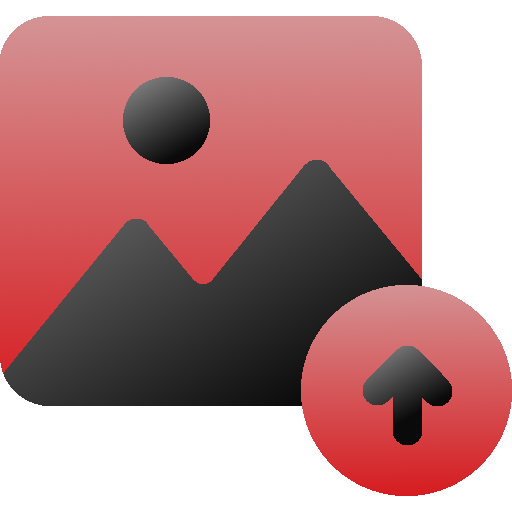
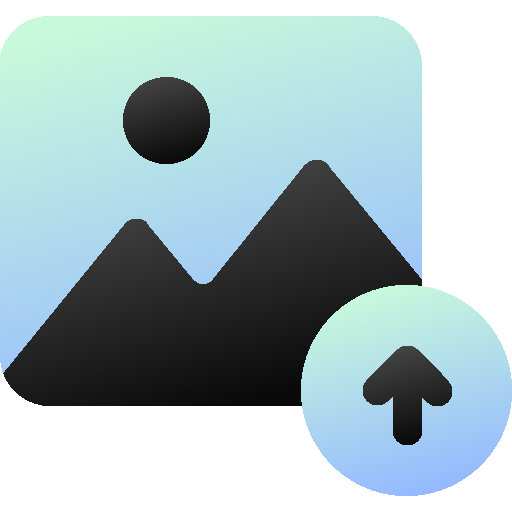
Reworked design to blue green and dark mode

diff --git a/geoguess_project/frontend/style.css b/geoguess_project/frontend/style.css
@@ -20,6 +20,11 @@ body {
     background-repeat: no-repeat;
     background-attachment: fixed;
     overflow-y: scroll;
+
+    background-color: #121212;
+    color: #eeeeee;
+
+    transition: background-color 0.3s ease, color 0.3s ease;
 }
 
 h1 {
@@ -27,9 +32,9 @@ h1 {
 }
 
 #uploadArea, #uploadAreaSmall {
-    border: 3px dashed #d61c20;
+    border: 3px dashed #94b9ff;
     border-radius: 10px;
-    color: #d61c20;
+    color: #94b9ff;
     font-weight: bold;
     cursor: pointer;
     user-select: none;
@@ -76,9 +81,9 @@ h1 {
 }
 
 #uploadArea.dragover, #uploadAreaSmall.dragover {
-    background-color: #d0e7ff;
-    border-color: #d61c20;
-    color: #d61c20;
+    background-color: #414e54;
+    border-color: #c8f9db;
+    color: #c8f9db;
 }
 
 #uploadAreaSmall {
@@ -87,18 +92,8 @@ h1 {
     margin: 40px auto 10px;
     font-size: 14px;
     display: none;
-
     flex-direction: column;
-    align-items: center;
-    justify-content: center;
-    position: relative;
-    border: 3px dashed #d61c20;
-    border-radius: 10px;
-    color: #d61c20;
-    cursor: pointer;
-    user-select: none;
     padding: 10px;
-    text-align: center;
     box-sizing: border-box;
 }
 
@@ -135,14 +130,14 @@ h1 {
     max-width: 100%;
     max-height: 300px;
     border-radius: 8px;
-    border: 1px solid #0a0a0a50;
+    border: 1px solid #94b9ff50;
     object-fit: contain;
 }
 
 .header-box {
     font-size: 12px;
     width: 100%;
-    background-color: #e7deda;
+    background-color: #1e1e1e;
     box-shadow: 0 3px 6px rgba(0, 0, 0, 0.3);
     padding: 1px 0;
     margin: 0;
@@ -166,17 +161,17 @@ h1 {
 }
 
 .spoti {
-  color: #d61c20;
+  color: #c8f9db;
   font-weight: bold;
 }
 
 .find {
-  color: #0A0A0A;
+  color: #94b9ff;
   font-weight: normal;
 }
 
 .background-box {
-    background: #e7deda88;
+    background: #1e1e1eaa;
     backdrop-filter: blur(10px);
     width: 75%;
     padding-top: 250px;
@@ -187,7 +182,7 @@ h1 {
 .divider {
     width: 80%;
     height: 1px;
-    background-color: #0A0A0A;
+    background-color: #94b9ff;
     margin: 60px auto;
     display: none;
 }
@@ -211,9 +206,9 @@ h1 {
 .chartContainer {
     flex: 1 1 40%;
     aspect-ratio: 3 / 4;
-    background: #e7deda;
+    background: #1e1e1e;
     border-radius: 8px;
-    border: 1px solid #0a0a0a50;
+    border: 1px solid #94b9ff50;
     box-shadow: 0 0 6px rgba(0, 0, 0, 0.1);
     display: flex;
     align-items: center;
@@ -225,19 +220,30 @@ h1 {
 #barChart {
     width: 100%;
     height: 100%;
+    background-color: #1e1e1e;
 }
 
 #map {
+    position: relative;
     flex: 2 1 60%;
-    border: 1px solid #0a0a0a50;
+    border: 1px solid #94b9ff50;
     border-radius: 8px;
     box-shadow: 0 0 6px rgba(0, 0, 0, 0.1);
     min-width: 500px;
 }
 
+#mapOceanOverlay {
+  position: absolute;
+  top: 0; left: 0; right: 0; bottom: 0;
+  background-color: rgba(180, 218, 255, 0.055);
+  pointer-events: none;
+  border-radius: 8px;
+  z-index: 500;
+}
+
 #chatBox {
   padding: 15px;
-  background-color: #0a0a0aaa;
+  background-color: #94b9ffaa;
   border-radius: 12px;
   font-size: 1.1em;
   display: none;
@@ -250,12 +256,12 @@ h1 {
   margin: 50px auto 30px auto;
   
   overflow-y: auto;
-  box-shadow: 0 0 15px #d61c20cc;
+  box-shadow: 0 0 15px #c8f9dbcc;
 }
 
 #chatBox {
   padding: 10px;
-  background-color: #0a0a0a50;
+  background-color: #94b9ff50;
   border-radius: 5px;
   font-size: 1.1em;
   display: none;
@@ -270,7 +276,7 @@ h1 {
   transition: opacity 0.6s ease, transform 0.6s ease;
 
   overflow-y: auto;
-  box-shadow: 0 0 15px #d61c20cc;
+  box-shadow: 0 0 15px #c8f9dbcc;
 }
 
 
@@ -283,12 +289,12 @@ h1 {
     max-width: 600px;
     margin: 10px auto;
     padding: 10px;
-    background: #f0f0f0;
+    background: #121212;
     border-radius: 8px;
     white-space: pre-wrap;
     font-family: monospace;
     font-size: 13px;
-    color: #0A0A0A;
+    color: #94b9ff;
     display: none;
 }
 
@@ -303,4 +309,19 @@ h1 {
     width: 100%;
     aspect-ratio: auto;
     }
+}
+
+/* ----------- DARKMODE FILTER FOR PLOT + MAP ----------- */
+.leaflet-layer, 
+.leaflet-control-zoom-in,
+.leaflet-control-zoom-out,
+.leaflet-control-attribution {
+  filter: invert(100%) hue-rotate(180deg) brightness(95%) contrast(90%);
+}
+
+.leaflet-container {
+  border-radius: 8px !important;
+  border: 1px solid rgba(148, 185, 255, 0.31) !important;
+  box-shadow: 0 0 6px rgba(0, 0, 0, 0.1) !important;
+  background-color: transparent !important;
 }

diff --git a/geoguess_project/frontend/index.html b/geoguess_project/frontend/index.html
@@ -11,7 +11,6 @@
   <script src="https://unpkg.com/leaflet/dist/leaflet.js"></script>
 </head>
 
-
 <body>
   <header class="header-box">
       <div class="header-content">
@@ -40,7 +39,6 @@
       <span class="upload-text">Neues Bild hierher ziehen oder klicken</span>
     </label>
     <input type="file" id="fileInputSmall" accept="image/*" />
-  
 
     <div id="divider" class="divider"></div>
 
@@ -48,7 +46,9 @@
       <div class="chartContainer">
         <canvas id="barChart"></canvas>
       </div>
-      <div id="map"></div>
+      <div id="map">
+        <div id="mapOceanOverlay"></div>
+      </div>
     </div>
 
     <div id="divider2" class="divider"></div>
@@ -60,7 +60,6 @@
     <pre id="result" style="display: none; visibility: hidden;"></pre>
 
   </div>
-
 
   <script>
     // Scrolling Animation script
@@ -102,18 +101,18 @@
       const labels = Object.keys(data);
       const values = Object.values(data).map(v => v * 100);
 
-      // Top 3
       const sortedIndices = values
         .map((val, idx) => ({ val, idx }))
         .sort((a, b) => b.val - a.val)
         .map(e => e.idx);
 
       const top3Indices = sortedIndices.slice(0, 3);
-
-      // Colors
       const barColors = values.map((_, idx) =>
-        top3Indices.includes(idx) ? '#d61c20' : '#0A0A0A'
+        top3Indices.includes(idx) ? '#c8f9db' : '#94b9ff'
       );
+
+      // Darkmode fest angenommen (darkmode = true)
+      const darkmode = true;
 
       window.myChart = new Chart(ctx, {
         type: 'bar',
@@ -129,10 +128,35 @@
           responsive: true,
           maintainAspectRatio: false,
           scales: {
-            y: { beginAtZero: true, max: 100 }
+            y: {
+              beginAtZero: true,
+              max: 100,
+              ticks: {
+                color: '#eeeeee'
+              },
+              grid: {
+                color: '#444444'
+              }
+            },
+            x: {
+              ticks: {
+                color: '#eeeeee'
+              },
+              grid: {
+                color: '#444444'
+              }
+            }
+          },
+          plugins: {
+            legend: {
+              labels: {
+                color: '#eeeeee'
+              }
+            }
           }
         }
       });
+      window.lastChartData = data;
     }
 
     function showTopCountries(countries) {
@@ -146,8 +170,8 @@
         const isTop3 = index < 3;
 
         const circle = L.circle([lat, lon], {
-          color: isTop3 ? '#d61c20' : '#0A0A0A',
-          fillColor: isTop3 ? '#d61c20' : '#0A0A0A',
+          color: isTop3 ? '#c8f9db' : '#94b9ff',
+          fillColor: isTop3 ? '#c8f9db' : '#94b9ff',
           fillOpacity: probability,
           radius: 500000
         }).addTo(map);
@@ -196,6 +220,7 @@
 
     let textTyped = false;
     let firstUploadDone = false;
+    let storedExplanationText = "";
 
     async function processFile(file) {
       if (!file) return;
@@ -224,7 +249,6 @@
           method: 'POST',
           body: formData
         });
-        
 
         if (!response.ok) {
           resultPre.style.display = 'none';
